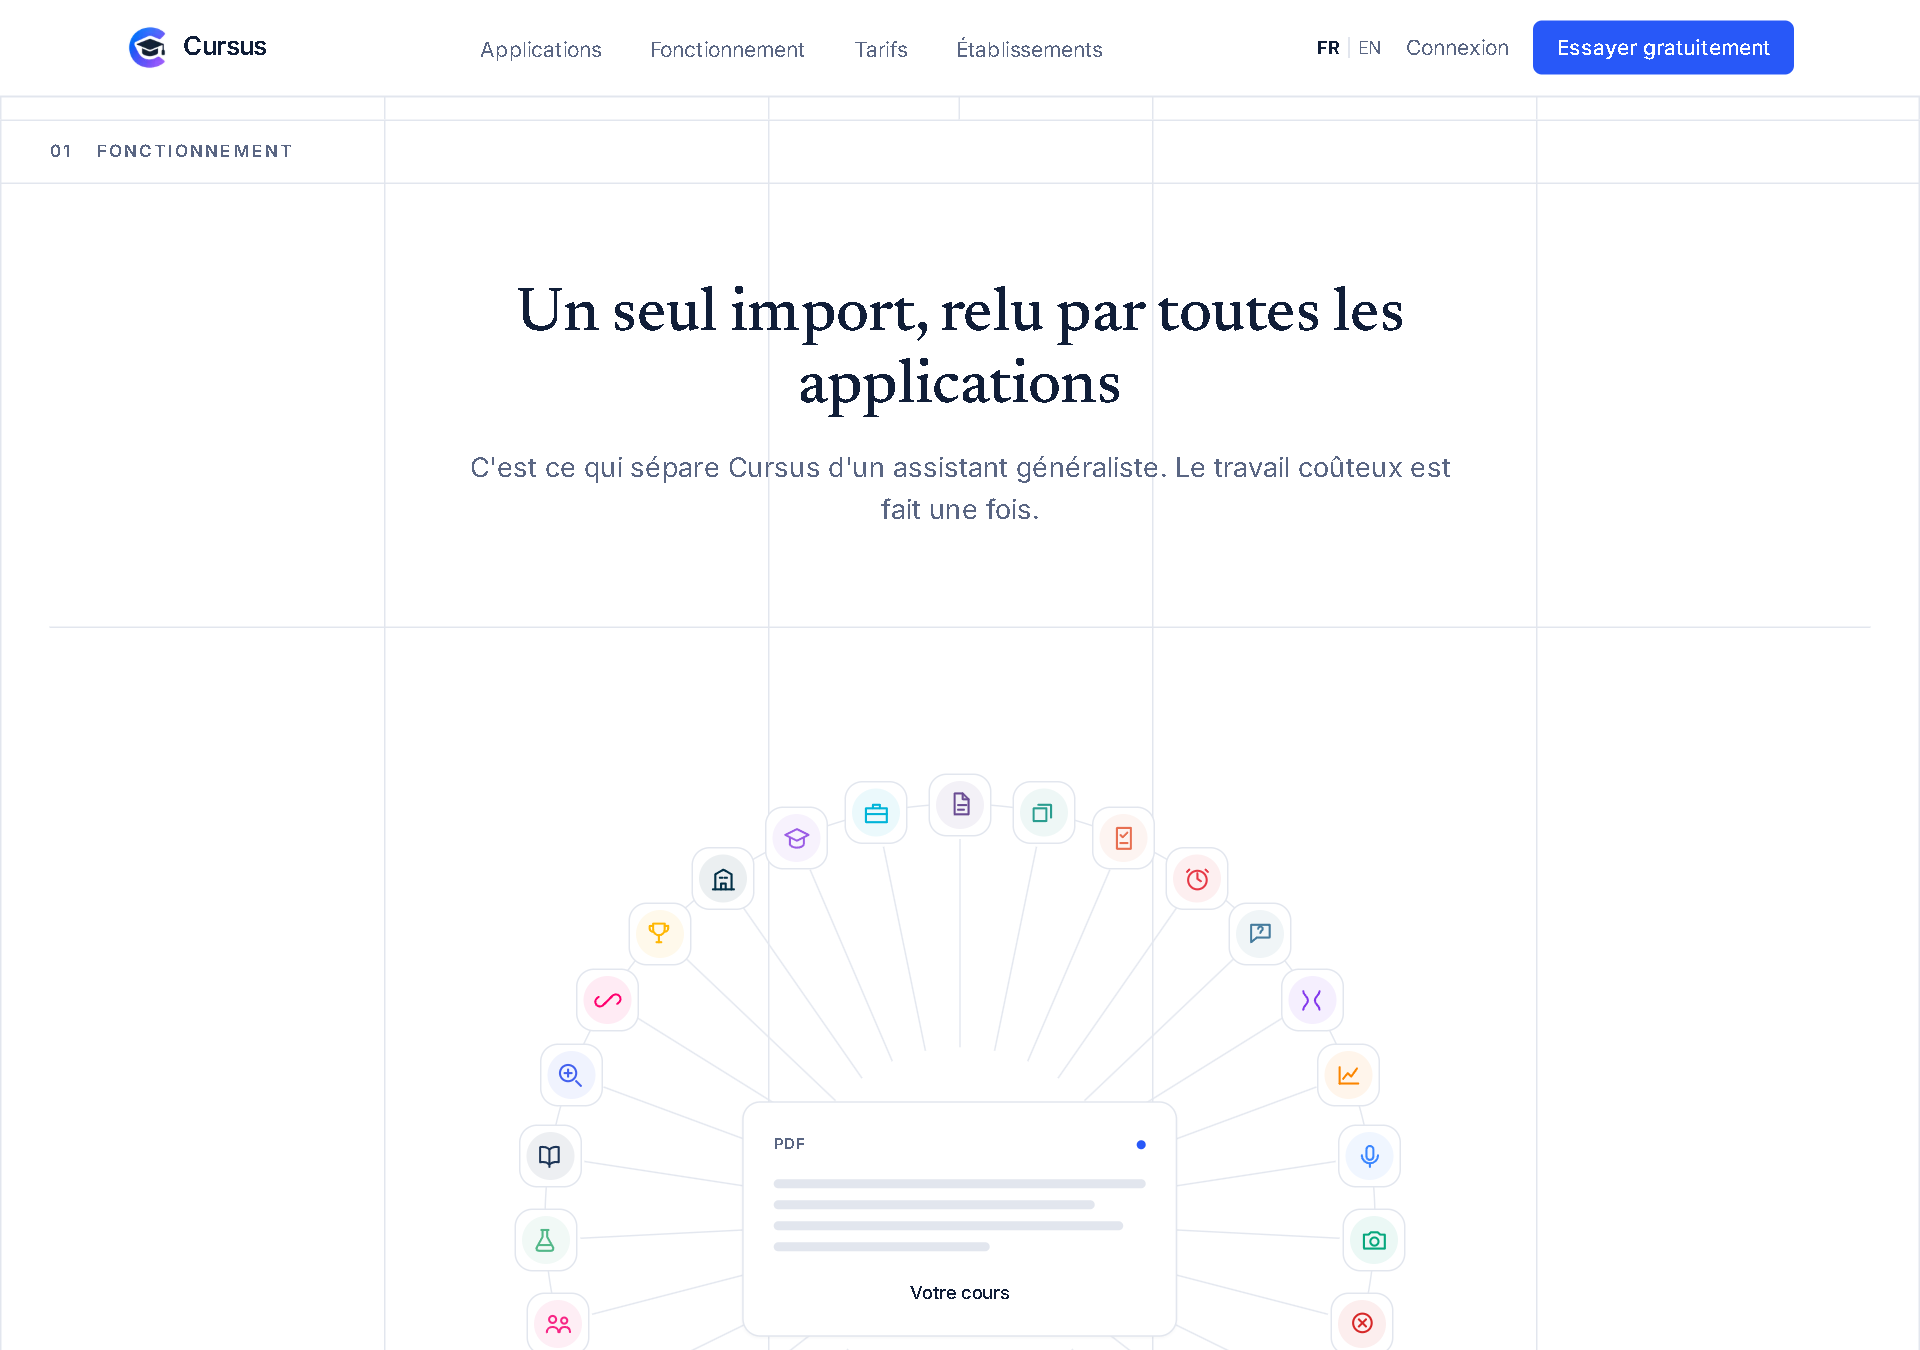
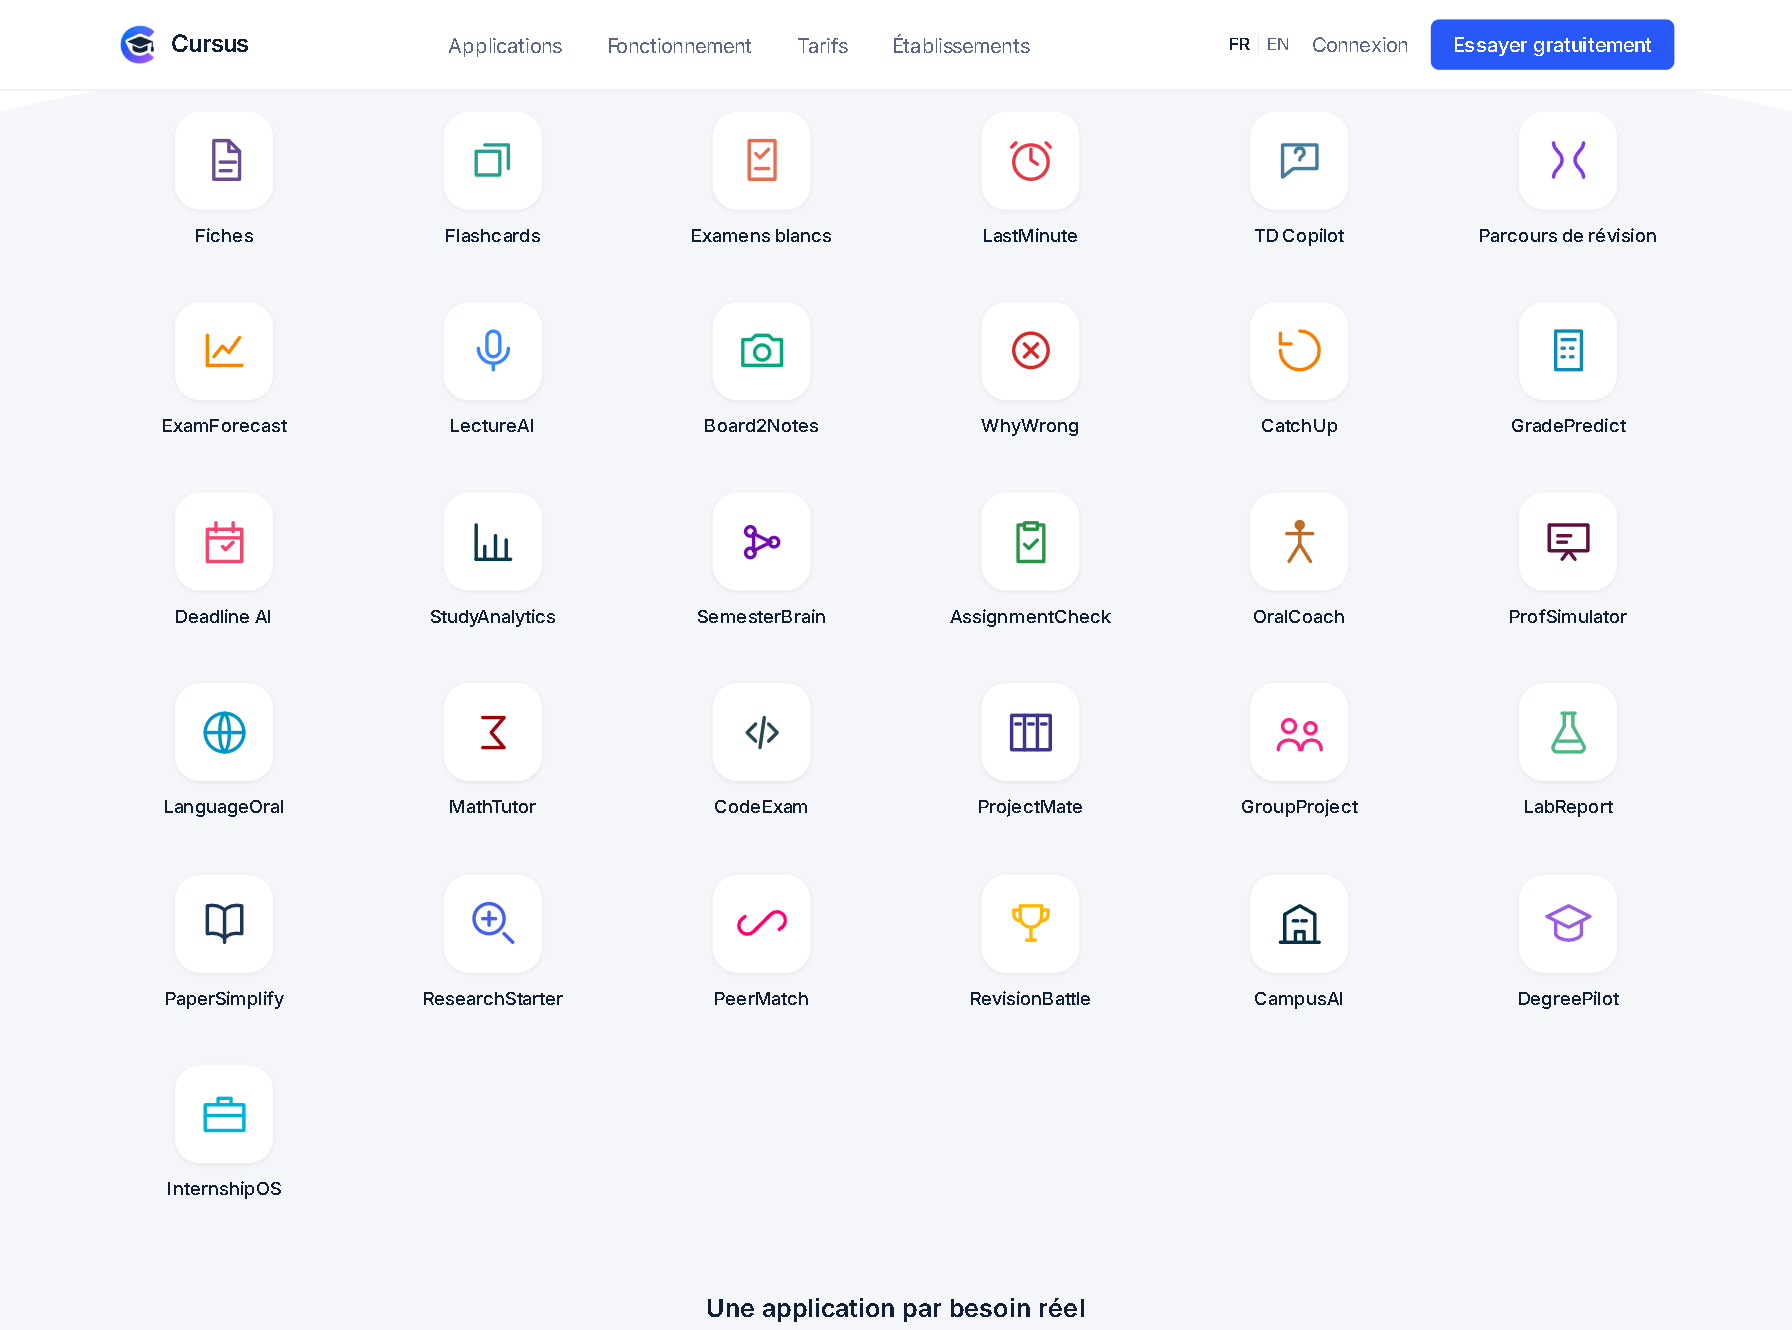
docs: refresh the screenshots after the layout change

diff --git a/profile/README.md b/profile/README.md
@@ -21,10 +21,11 @@ C'est ce qui sépare Cursus d'un assistant généraliste. Le travail coûteux es
 fait une fois, chaque application le relit sous son angle, et chaque réponse
 cite le passage du cours dont elle vient.
 
-Le site public dessine cet argument plutôt que de l'énoncer : le document au
-centre, les trente et une applications autour.
+Le site public montre les trente et une applications côte à côte, et dessine
+l'argument plutôt que de l'énoncer : le document au centre, les applications
+qui le relisent autour.
 
-![Un import au centre, trente et une applications autour](images/applications.png)
+![Les trente et une applications](images/applications.png)
 
 ## Le modèle
 
